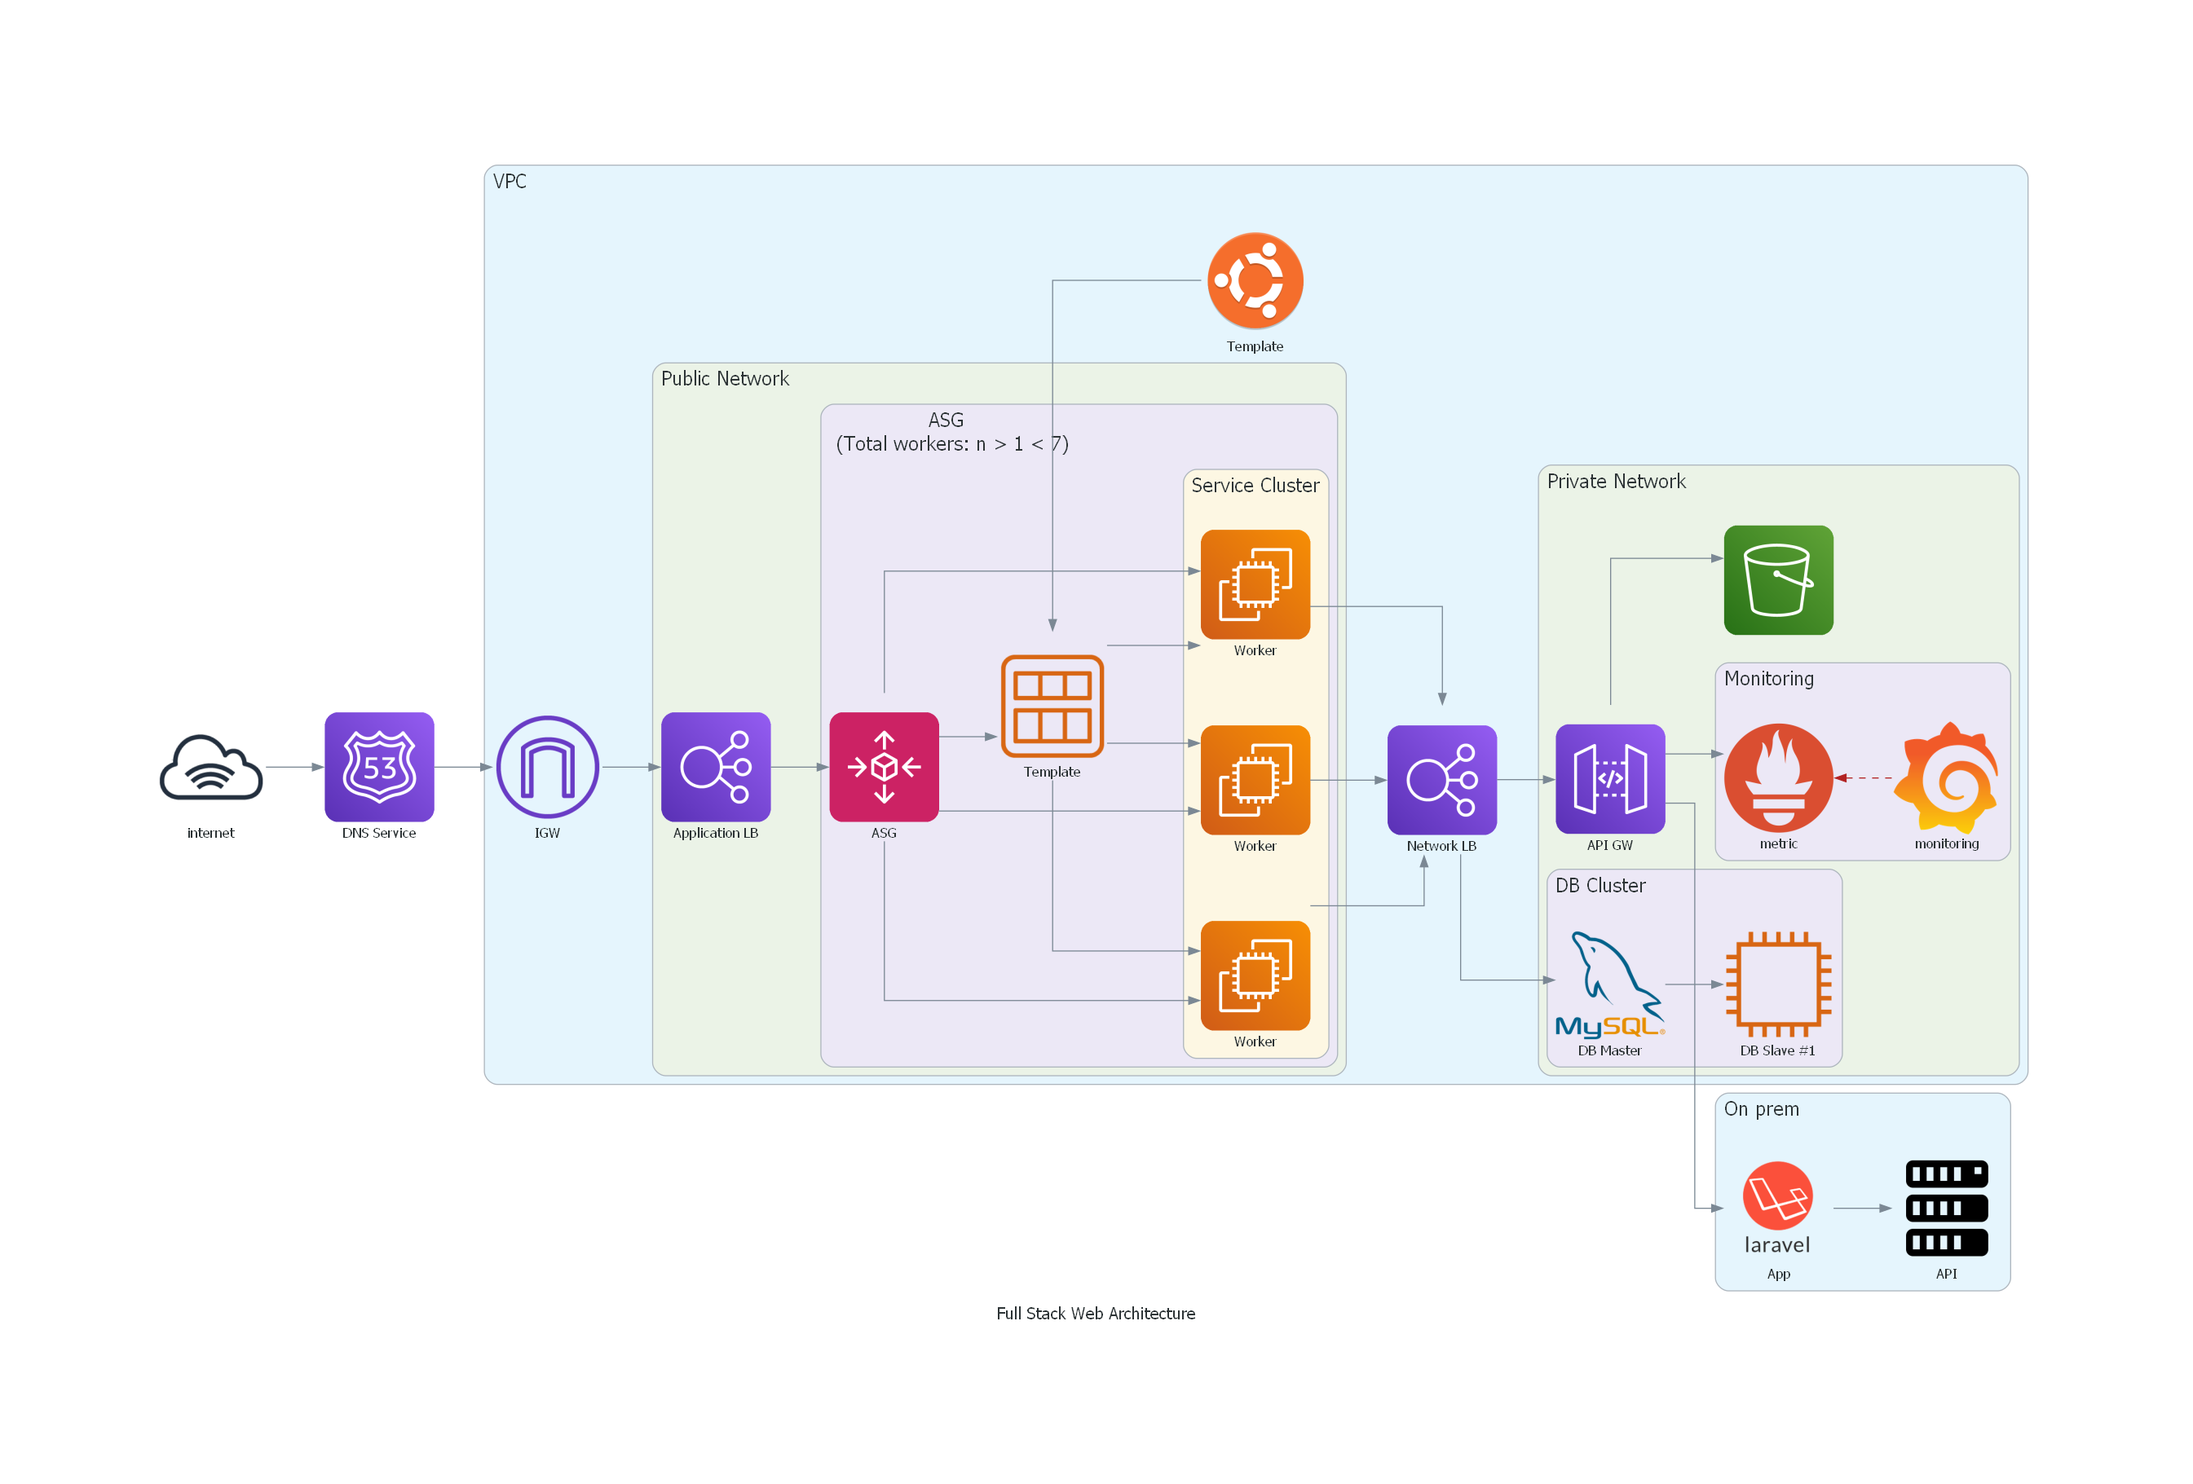
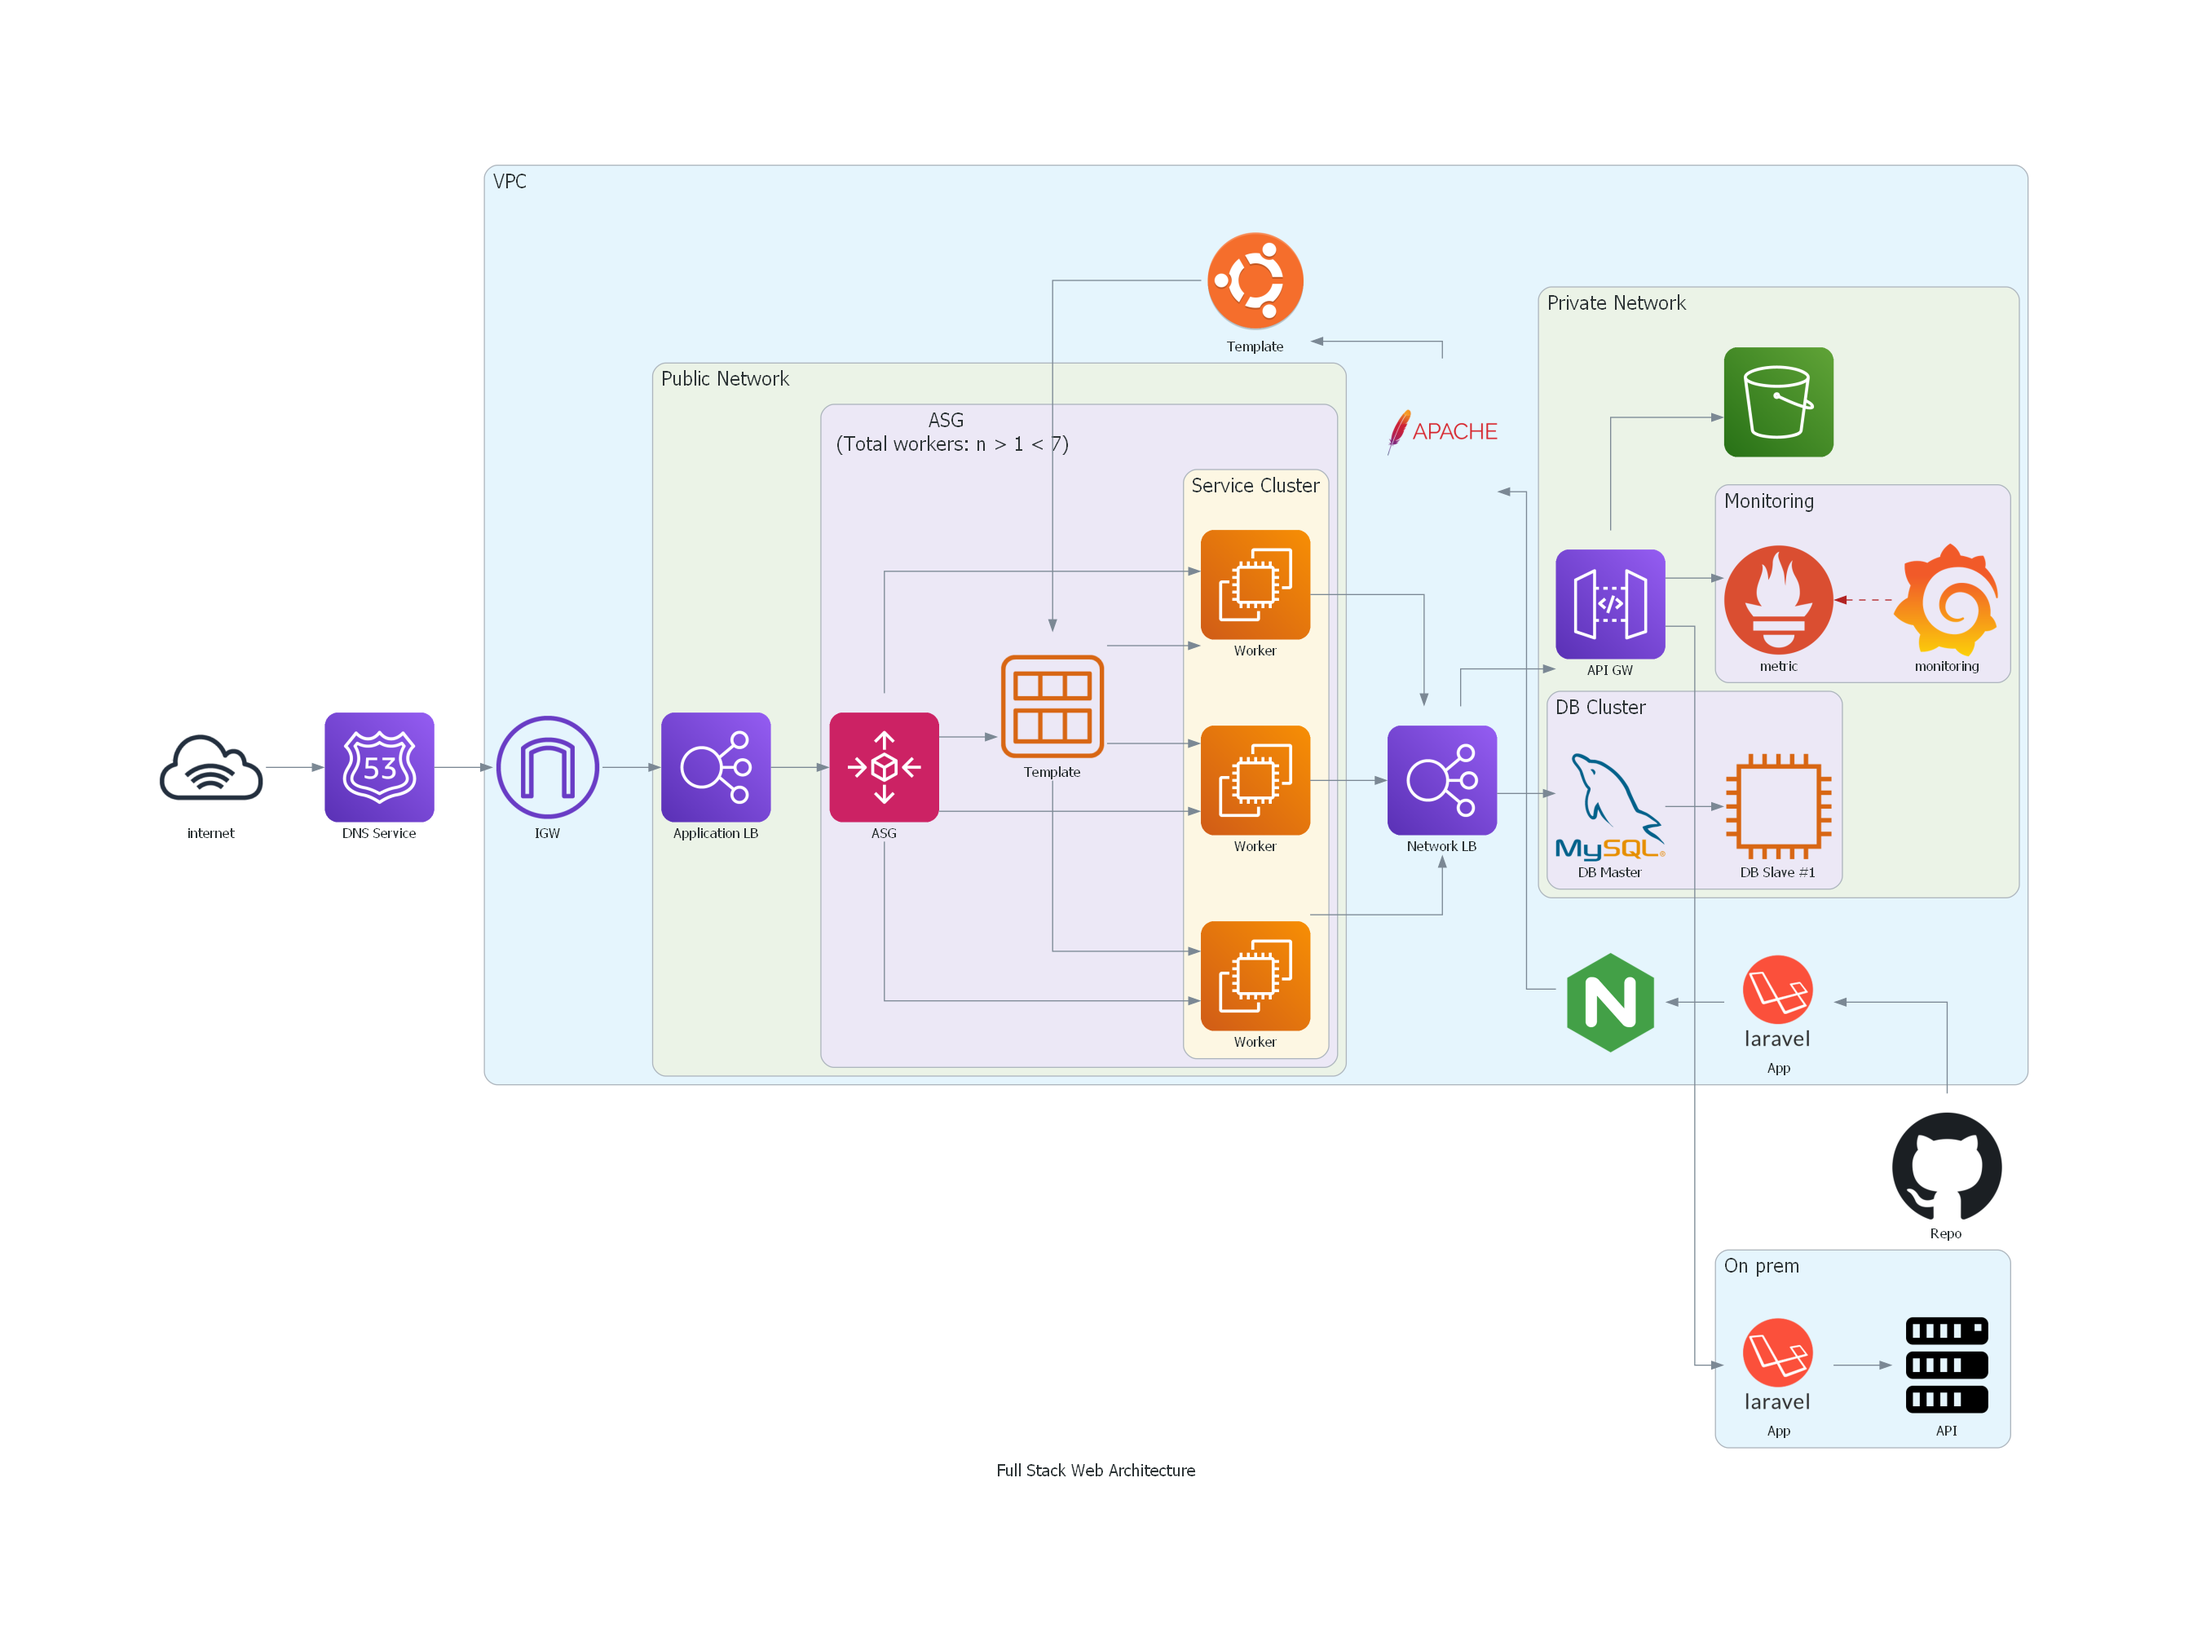
Added image and repo, need to refactor it

diff --git a/DAC/Architecture Diagram.py b/DAC/Architecture Diagram.py
@@ -8,8 +8,11 @@ from diagrams.aws.general import InternetGateway as gIG
 
 
 from diagrams.onprem.monitoring import Grafana, Prometheus
+from diagrams.onprem.network import Apache, Nginx
 
 from diagrams.aws.management import AutoScaling
+
+
 
 
 
@@ -19,6 +22,7 @@ from diagrams.programming.framework import Laravel
 from diagrams.onprem.database import MySQL
 from diagrams.onprem.storage import CEPH_OSD
 from diagrams.onprem.compute import Server
+from diagrams.onprem.vcs import Github
 
 
 from diagrams.generic.virtualization import Virtualbox
@@ -26,8 +30,6 @@ from diagrams.generic.os import Ubuntu
 
 
 from diagrams.generic.network import Firewall, Router
-import prometheus_client
-
 def nameSpace(index):
     
     if index < 0:
@@ -69,6 +71,8 @@ with Diagram("Full Stack Web Architecture", show=False):
     
     internet = gIG('internet')
     dns = Route53('DNS Service')
+    
+    git = Github('Repo')
     with Cluster("VPC"):
         igw = InternetGateway('IGW')
         with Cluster("Public Network"):
@@ -98,10 +102,12 @@ with Diagram("Full Stack Web Architecture", show=False):
                 metrics << Edge(color="firebrick", style="dashed") << Grafana("monitoring")
             
         ubu = Ubuntu('Template')
+        ubu  << Apache('') << Nginx('') << Laravel('App') << git
         
     with Cluster('On prem'):
         lrvl = Laravel('App')
         OnPremServ = Server('API')
+        
     AMI << ubu
 
             
